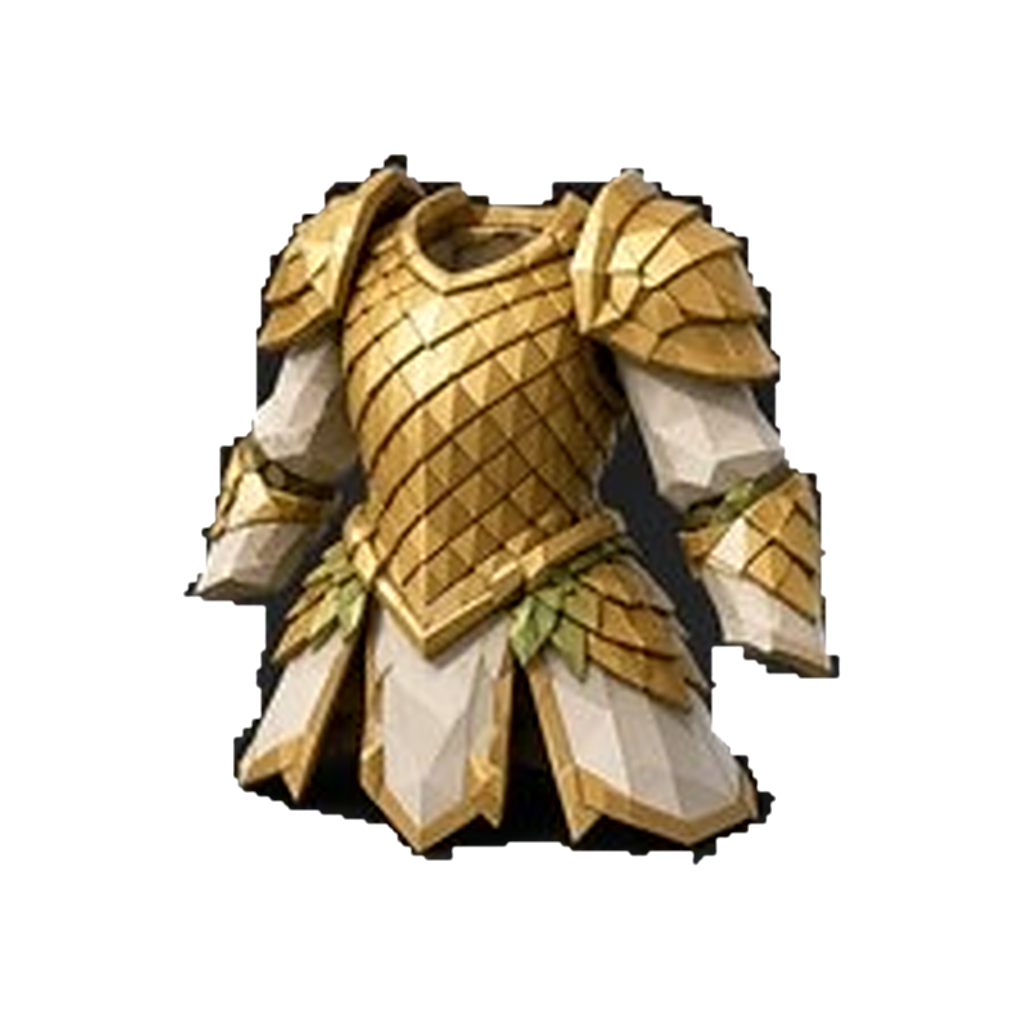
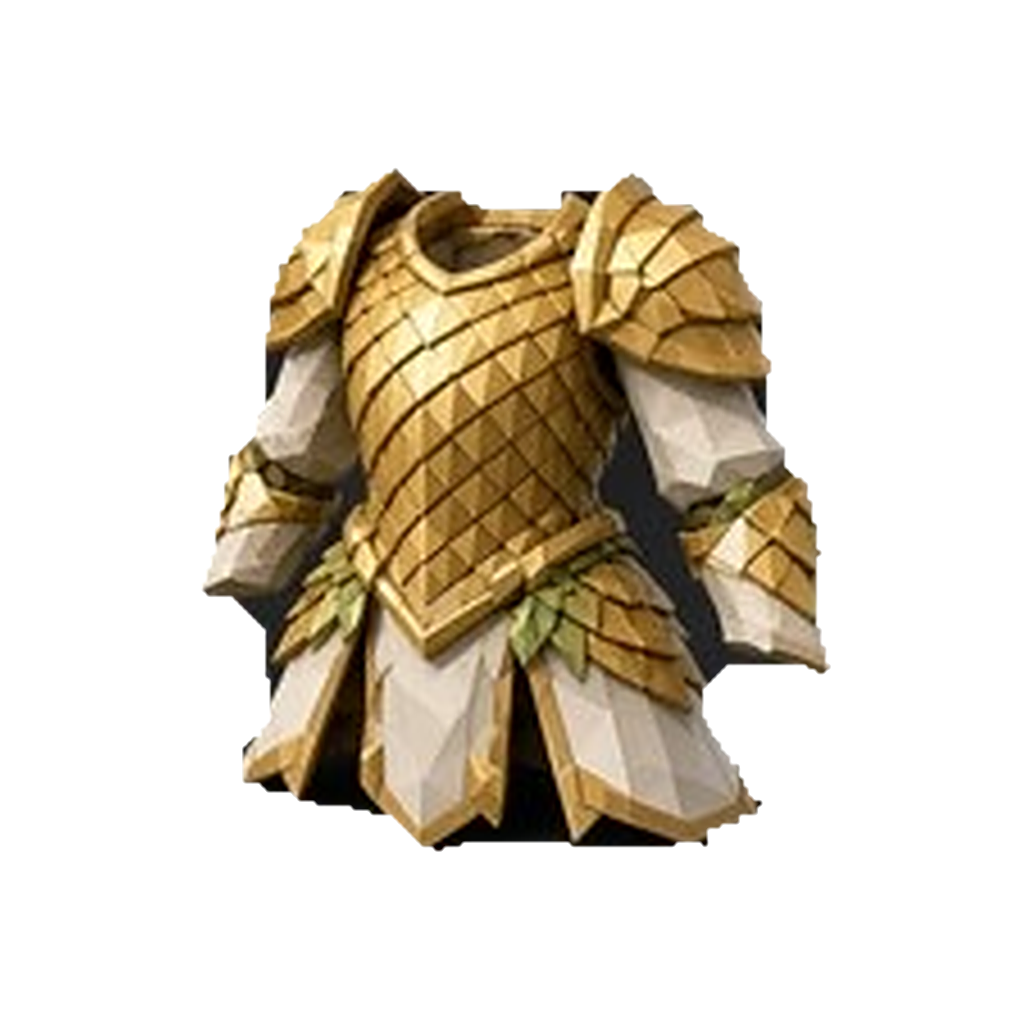
Clean Meshy upload images for all 84 items; Meshy setup guide
- tools/meshy_inputs.py: every design cut from the reference sheet at full
  quality, background removed, centred on a transparent 1024px square;
  stage-1 masks repaired with GrabCut (optional OpenCV) so dark armour keeps
  its full outline, with sheet drop shadows rejected
- stage2 --backend meshy uploads these clean shots when present
- MESHY.md: by-hand and automated (API key on the PC, Claude Code there)

Claude-Session: https://claude.ai/code/session_01QjAfw57nEQtagkX1KyWXyD

diff --git a/tools/meshy_inputs.py b/tools/meshy_inputs.py
@@ -1,0 +1,152 @@
+#!/usr/bin/env python3
+"""Clean design shots for image-to-3D tools (Meshy, Tripo, Hunyuan3D, ...).
+
+  python3 tools/meshy_inputs.py [--views pipeline_out/01_views] [--out meshy_input] [--size 1024] [--only B08]
+
+For every item: cut from the reference sheet at full quality, background
+removed (the stage-1 mask, repaired with GrabCut when OpenCV is installed), centred on a transparent square and upscaled. Writes
+meshy_input/<code>_<name>.png and meshy_input/contact_sheet.png (all of them
+on grey, for a quick look). stage2 --backend meshy uploads these when present.
+"""
+import argparse
+import glob
+import json
+import os
+import re
+import sys
+
+import numpy as np
+from PIL import Image, ImageDraw
+
+try:
+    import cv2  # optional: pip install opencv-python-headless, repairs masks with GrabCut
+except ImportError:
+    cv2 = None
+
+ROOT = os.path.dirname(os.path.dirname(os.path.abspath(__file__)))
+sys.path.insert(0, ROOT)
+from rsgen.meshy import clean_shot  # noqa: E402
+
+
+def refine_mask(sheet_bgr, crop, mask, pad=12, strict_shadows=False):
+    """Repair a stage-1 mask with GrabCut (OpenCV), seeded by it.
+
+    Stage 1 cut items out by colour, which bites holes where dark armour is
+    close to the sheet's dark backdrop. GrabCut models item and backdrop
+    colours and fills those in. Only parts touching the old mask are kept and
+    inner holes are filled. Falls back to the old mask when OpenCV is missing
+    or the result changes implausibly much."""
+    old = np.asarray(mask.convert('L')) > 127
+    if cv2 is None:
+        return mask
+    x0, y0, x1, y1 = crop
+    H, W = sheet_bgr.shape[:2]
+    X0, Y0, X1, Y1 = max(0, x0 - pad), max(0, y0 - pad), min(W, x1 + pad), min(H, y1 + pad)
+    img = sheet_bgr[Y0:Y1, X0:X1].copy()
+    seed = np.zeros(img.shape[:2], np.uint8)
+    seed[y0 - Y0:y0 - Y0 + old.shape[0], x0 - X0:x0 - X0 + old.shape[1]] = old
+    gc = np.full(img.shape[:2], cv2.GC_PR_BGD, np.uint8)
+    gc[seed > 0] = cv2.GC_PR_FGD
+    gc[cv2.erode(seed, np.ones((5, 5), np.uint8)) > 0] = cv2.GC_FGD
+    gc[:3] = gc[-3:] = cv2.GC_BGD
+    gc[:, :3] = gc[:, -3:] = cv2.GC_BGD
+    cv2.grabCut(img, gc, None, np.zeros((1, 65)), np.zeros((1, 65)), 8, cv2.GC_INIT_WITH_MASK)
+    new = ((gc == cv2.GC_FGD) | (gc == cv2.GC_PR_FGD)).astype(np.uint8)
+    n, lab = cv2.connectedComponents(new)
+    keep = np.zeros_like(new)
+    for i in range(1, n):
+        comp = lab == i
+        if (comp & (seed > 0)).sum() > 20:
+            keep[comp] = 1
+    ff = keep.copy()
+    cv2.floodFill(ff, np.zeros((ff.shape[0] + 2, ff.shape[1] + 2), np.uint8), (0, 0), 2)
+    keep[ff == 0] = 1  # fill holes
+    keep = keep[y0 - Y0:y0 - Y0 + old.shape[0], x0 - X0:x0 - X0 + old.shape[1]] > 0
+    # drop shadows on the sheet are darker than its backdrop; dark armour is lighter
+    crop_img = img[y0 - Y0:y0 - Y0 + old.shape[0], x0 - X0:x0 - X0 + old.shape[1]].astype(float)
+    border = np.concatenate([img[:3].reshape(-1, 3), img[-3:].reshape(-1, 3), img[:, :3].reshape(-1, 3),
+                             img[:, -3:].reshape(-1, 3)]).astype(float)
+    bg_level = np.median(border.max(1))
+    chroma = crop_img.max(-1) - crop_img.min(-1)
+    shadow = (crop_img.max(-1) <= bg_level + 2) & (chroma < 12)
+    # shadows fall beside the item; inside its outline hull, dark pixels are armour
+    pts = np.argwhere(old)[:, ::-1].astype(np.int32)
+    hull = np.zeros(old.shape, np.uint8)
+    if len(pts) >= 3:
+        cv2.fillConvexPoly(hull, cv2.convexHull(pts), 1)
+    if not strict_shadows:
+        shadow &= hull == 0
+    keep &= old | ~shadow
+    # what's enclosed by the item is item (dark armour), shadows sit outside it;
+    # then drop specks under 2% of the item
+    k8 = keep.astype(np.uint8)
+    ff = np.pad(k8, 1)
+    cv2.floodFill(ff, np.zeros((ff.shape[0] + 2, ff.shape[1] + 2), np.uint8), (0, 0), 2)
+    k8[ff[1:-1, 1:-1] == 0] = 1
+    n, lab, stats, _ = cv2.connectedComponentsWithStats(k8)
+    big = np.zeros(n, bool)
+    big[1:] = stats[1:, cv2.CC_STAT_AREA] >= 0.02 * k8.sum()
+    keep = big[lab]
+    added, removed = (keep & ~old).sum(), (old & ~keep).sum()
+    if removed > 0.15 * old.sum() or added > 0.4 * old.sum():
+        return mask
+    return Image.fromarray((keep * 255).astype(np.uint8))
+
+
+# items whose sheet art casts a dark shadow inside their own outline (between
+# a weapon's head and shaft, under boots and robes): dark, flat pixels are
+# rejected everywhere for these, not only outside the outline hull. Checked by
+# eye on meshy_input/contact_sheet.png.
+STRICT_SHADOWS = {'B02_3', 'B03_3', 'B03_4', 'B03_5', 'B03_6', 'B04_1', 'B04_2', 'B04_3', 'B06_3', 'B06_4',
+                  'B09_6', 'B12_1', 'B12_4'}
+
+
+def slug(name):
+    return re.sub(r'[^a-z0-9]+', '_', name.lower()).strip('_')
+
+
+def shot_path(out, code):
+    hits = sorted(glob.glob(os.path.join(out, code + '_*.png')))
+    return hits[0] if hits else None
+
+
+def main():
+    ap = argparse.ArgumentParser(description=__doc__, formatter_class=argparse.RawDescriptionHelpFormatter)
+    ap.add_argument('--views', default=os.path.join(ROOT, 'pipeline_out', '01_views'))
+    ap.add_argument('--out', default=os.path.join(ROOT, 'meshy_input'))
+    ap.add_argument('--size', type=int, default=1024)
+    ap.add_argument('--only', default='')
+    a = ap.parse_args()
+    os.makedirs(a.out, exist_ok=True)
+    sheets, done = {}, []
+    for mj in sorted(glob.glob(os.path.join(a.views, '*', 'meta.json'))):
+        with open(mj) as f:
+            m = json.load(f)
+        if not m['code'].startswith(a.only) or 'crop' not in m:
+            continue
+        sp = os.path.join(ROOT, m.get('sheet', 'reference_sheet.jpg'))
+        if sp not in sheets:
+            rgb = Image.open(sp).convert('RGB')
+            sheets[sp] = (rgb, np.asarray(rgb)[..., ::-1].copy())
+        mask = refine_mask(sheets[sp][1], m['crop'], Image.open(os.path.join(os.path.dirname(mj), 'mask.png')),
+                           strict_shadows=m['code'] in STRICT_SHADOWS)
+        im = clean_shot(sheets[sp][0], m['crop'], mask, a.size)
+        path = os.path.join(a.out, '%s_%s.png' % (m['code'], slug(m['name'])))
+        im.save(path)
+        done.append((m['code'], m['name'], im))
+    T, cols = 200, 12
+    sheet = Image.new('RGB', (cols * T, ((len(done) + cols - 1) // cols) * (T + 16)), (40, 40, 44))
+    dr = ImageDraw.Draw(sheet)
+    for i, (code, name, im) in enumerate(done):
+        x, y = (i % cols) * T, (i // cols) * (T + 16)
+        bg = Image.new('RGBA', im.size, (205, 205, 205, 255))
+        bg.alpha_composite(im)
+        sheet.paste(bg.convert('RGB').resize((T, T), Image.LANCZOS), (x, y))
+        dr.text((x + 3, y + T + 2), code, fill=(230, 230, 230))
+    if not a.only:
+        sheet.save(os.path.join(a.out, 'contact_sheet.png'))
+    print('%d clean shots -> %s' % (len(done), a.out))
+
+
+if __name__ == '__main__':
+    main()

diff --git a/rsgen/meshy.py b/rsgen/meshy.py
@@ -19,7 +19,7 @@ import time
 import urllib.error
 import urllib.request
 
-from PIL import Image
+from PIL import Image, ImageFilter
 
 DEFAULT_BASE = 'https://api.meshy.ai'
 ENDPOINT = '/openapi/v1/image-to-3d'
@@ -29,6 +29,26 @@ DONE_BAD = {'FAILED', 'CANCELED', 'CANCELLED', 'EXPIRED'}
 
 class MeshyError(RuntimeError):
     pass
+
+
+def clean_shot(sheet, crop, mask, size=1024, pad=0.12):
+    """A clean upload image of one design: cut from the reference sheet at its
+    full quality, background removed with the item mask (choked 1px so the
+    sheet's dark backdrop doesn't fringe the edge), centred on a transparent
+    square canvas and upscaled to size. sheet: RGB image; crop: (x0, y0, x1,
+    y1) on it; mask: L image the size of the crop."""
+    rgb = sheet.crop(tuple(crop))
+    w, h = rgb.size
+    k = size * (1 - 2 * pad) / max(w, h)
+    W, H = round(w * k), round(h * k)
+    big = rgb.resize((W, H), Image.LANCZOS).filter(ImageFilter.UnsharpMask(radius=2, percent=60, threshold=2))
+    a = mask.convert('L').filter(ImageFilter.MinFilter(3)).resize((W, H), Image.LANCZOS)
+    a = a.filter(ImageFilter.GaussianBlur(k * 0.3)).point(lambda v: max(0, min(255, int((v - 128) * 1.8 + 128))))
+    tile = big.convert('RGBA')
+    tile.putalpha(a)
+    out = Image.new('RGBA', (size, size), (0, 0, 0, 0))
+    out.alpha_composite(tile, ((size - W) // 2, (size - H) // 2))
+    return out
 
 
 def image_data_uri(path, min_side=512, pad=0.08):

diff --git a/pipeline/stage2_images_to_models.py b/pipeline/stage2_images_to_models.py
@@ -351,7 +351,9 @@ def run_meshy_all(items, a, client=None, log=print):
             log('%s: skipped (--max-tasks %d reached)' % (meta['code'], a.max_tasks))
             continue
         os.makedirs(out, exist_ok=True)
-        tid = client.create_image_to_3d(image_data_uri(os.path.join(d, 'color.png')), **opts)
+        # the clean shot from tools/meshy_inputs.py when there is one, else the stage-1 cutout
+        shot = sorted(glob.glob(os.path.join(ROOT, 'meshy_input', meta['code'] + '_*.png')))
+        tid = client.create_image_to_3d(image_data_uri(shot[0] if shot else os.path.join(d, 'color.png')), **opts)
         with open(tj, 'w') as f:
             json.dump(dict(task_id=tid, options=opts, created=time.time()), f, indent=1)
         submitted += 1

diff --git a/MESHY.md b/MESHY.md
@@ -1,0 +1,68 @@
+# Meshy: real 3D models from the designs
+
+`meshy_input/` has a clean upload image for every item: 1024×1024, transparent
+background, cut from `reference_sheet.jpg`. `meshy_input/contact_sheet.png` shows all of them.
+Regenerate them with `python tools/meshy_inputs.py`; the optional `pip install opencv-python-headless`
+repairs dark armour cutouts with GrabCut.
+
+There are two ways to use Meshy.
+
+## A. By hand on meshy.ai (no setup)
+
+1. Open meshy.ai → **Image to 3D** and upload `meshy_input/<code>_<name>.png`.
+2. Settings:
+   - texture: on
+   - topology: triangle
+   - polycount: the lowest it offers (around 3–5k)
+   - symmetry: on for armour and helms, auto for weapons
+3. Download as **GLB** and name it `<code>.glb`, e.g. `B08_3.glb`.
+4. Give the GLBs to Claude. Put them in a `meshy_models/` folder in the repo and push, or attach them to the chat.
+
+## B. Let Claude call Meshy from your PC (automated)
+
+Claude runs the pipeline on your PC, and your key never goes into the chat.
+
+1. **Get an API key.** Go to meshy.ai → your account → **API**. API calls use paid credits, so check that your plan
+   includes them.
+2. **Store it on your PC.** Open PowerShell and run this once, with your key in place of the placeholder:
+   ```powershell
+   setx MESHY_API_KEY "msy_your_key_here"
+   ```
+   Then close PowerShell and open a new window; `setx` only applies to new windows.
+3. **Get the project and its tools** (needs Git and Python 3.10+):
+   ```powershell
+   cd C:\Users\baseb\rsps
+   git clone https://github.com/iamchrisvelez-bit/RSPS---reimagined.git
+   cd RSPS---reimagined
+   git checkout rsps-redesigns
+   pip install -r requirements.txt opencv-python-headless
+   ```
+4. **Start Claude Code in that folder**, using either of these:
+   - the **Claude desktop app**: open a Code session and choose this folder, or
+   - in the same PowerShell window, `claude` for a terminal session. Use `claude remote-control` instead if you
+     want to drive it from the Claude app on your phone or browser.
+5. **Ask Claude** something like *"Run Meshy on B08_3, B12_2 and B05_4 and show me the QA sheets."*
+   The commands it uses are below. Always do a dry run first: it shows what would be sent and costs nothing.
+   ```powershell
+   python pipeline/stage2_images_to_models.py --backend meshy --only B08_3 --dry-run
+   python pipeline/stage2_images_to_models.py --backend meshy --only B08_3 --max-tasks 1
+   ```
+   - `--max-tasks` caps how many paid tasks one run may start.
+   - Task ids are saved as soon as each task is submitted (`pipeline_out/02_models/<code>/meshy_task.json`), so an
+     interrupted run resumes instead of paying twice.
+
+### Or from a Claude cloud session
+
+Two settings are needed in the cloud environment's settings: the session title bar's environment menu, then **Edit**.
+
+- **Key:** add `MESHY_API_KEY` under Network secrets, or as an environment variable.
+- **Network:** add `api.meshy.ai` and `assets.meshy.ai` under **Network access → Allowed domains**. The second is
+  the download host; if a download is refused, the error names the host to add.
+
+Start a new session afterwards so it picks these up.
+
+## What happens next
+
+Claude reduces each Meshy model to an OSRS-style face count with flat colours, then puts it through the same
+fitting, animation, swap and QA steps as the current models (SWAP.md, `tools/qa_render.py`). It compares the
+results side by side with the current versions before anything replaces them.
